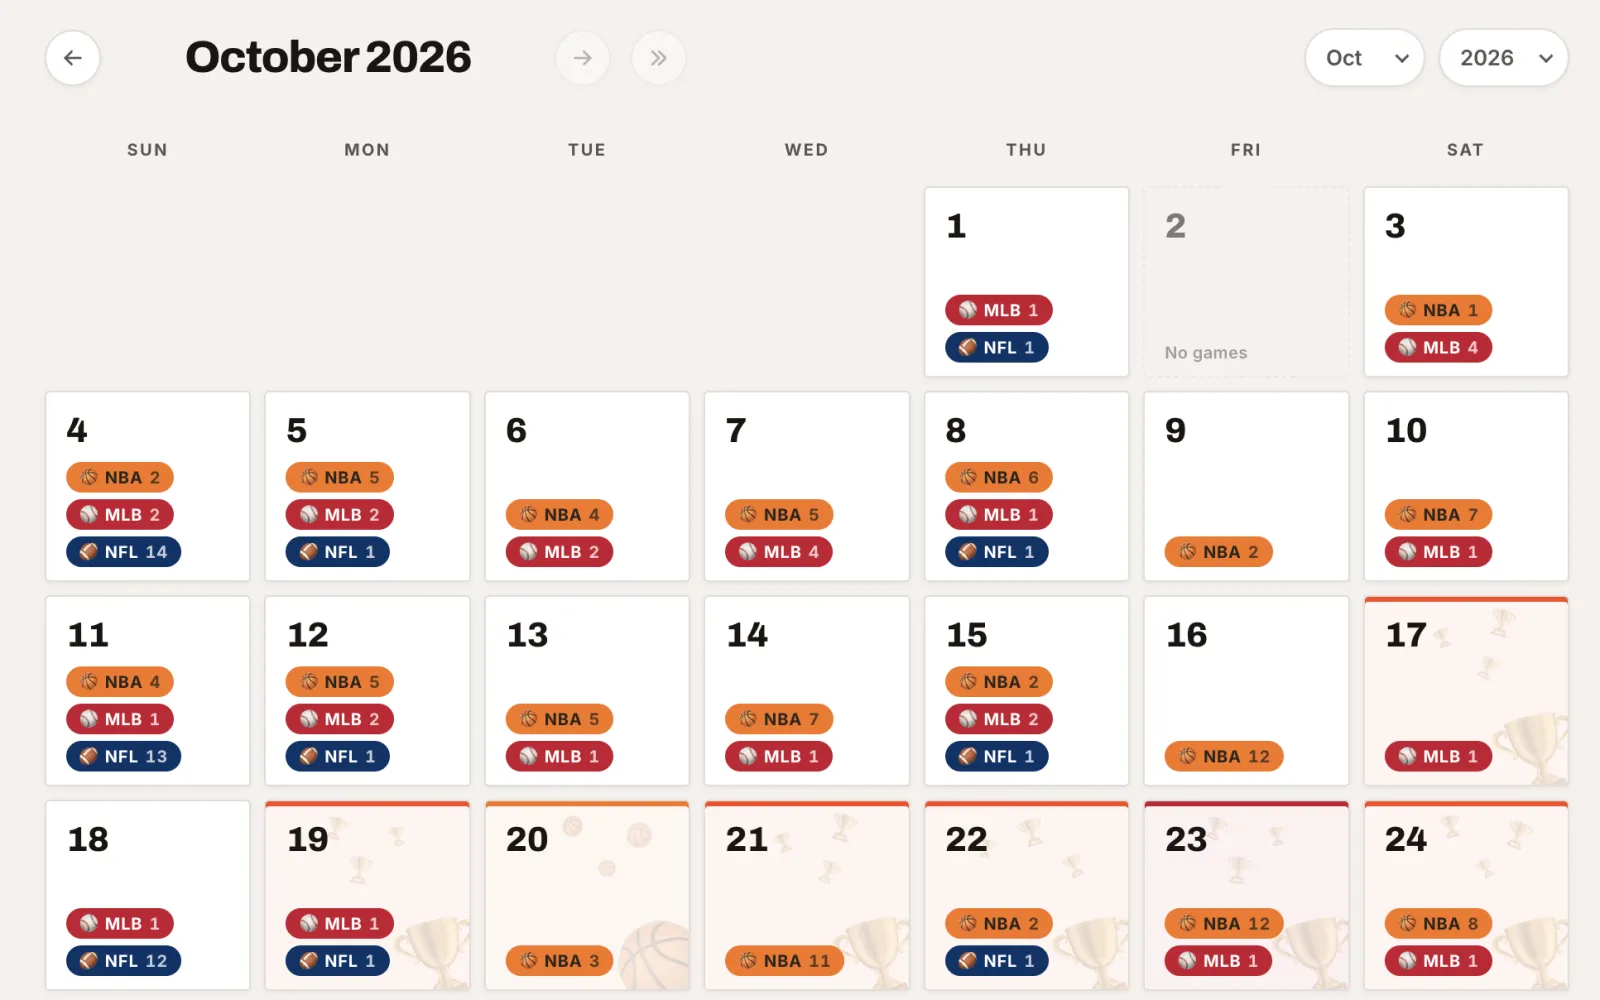
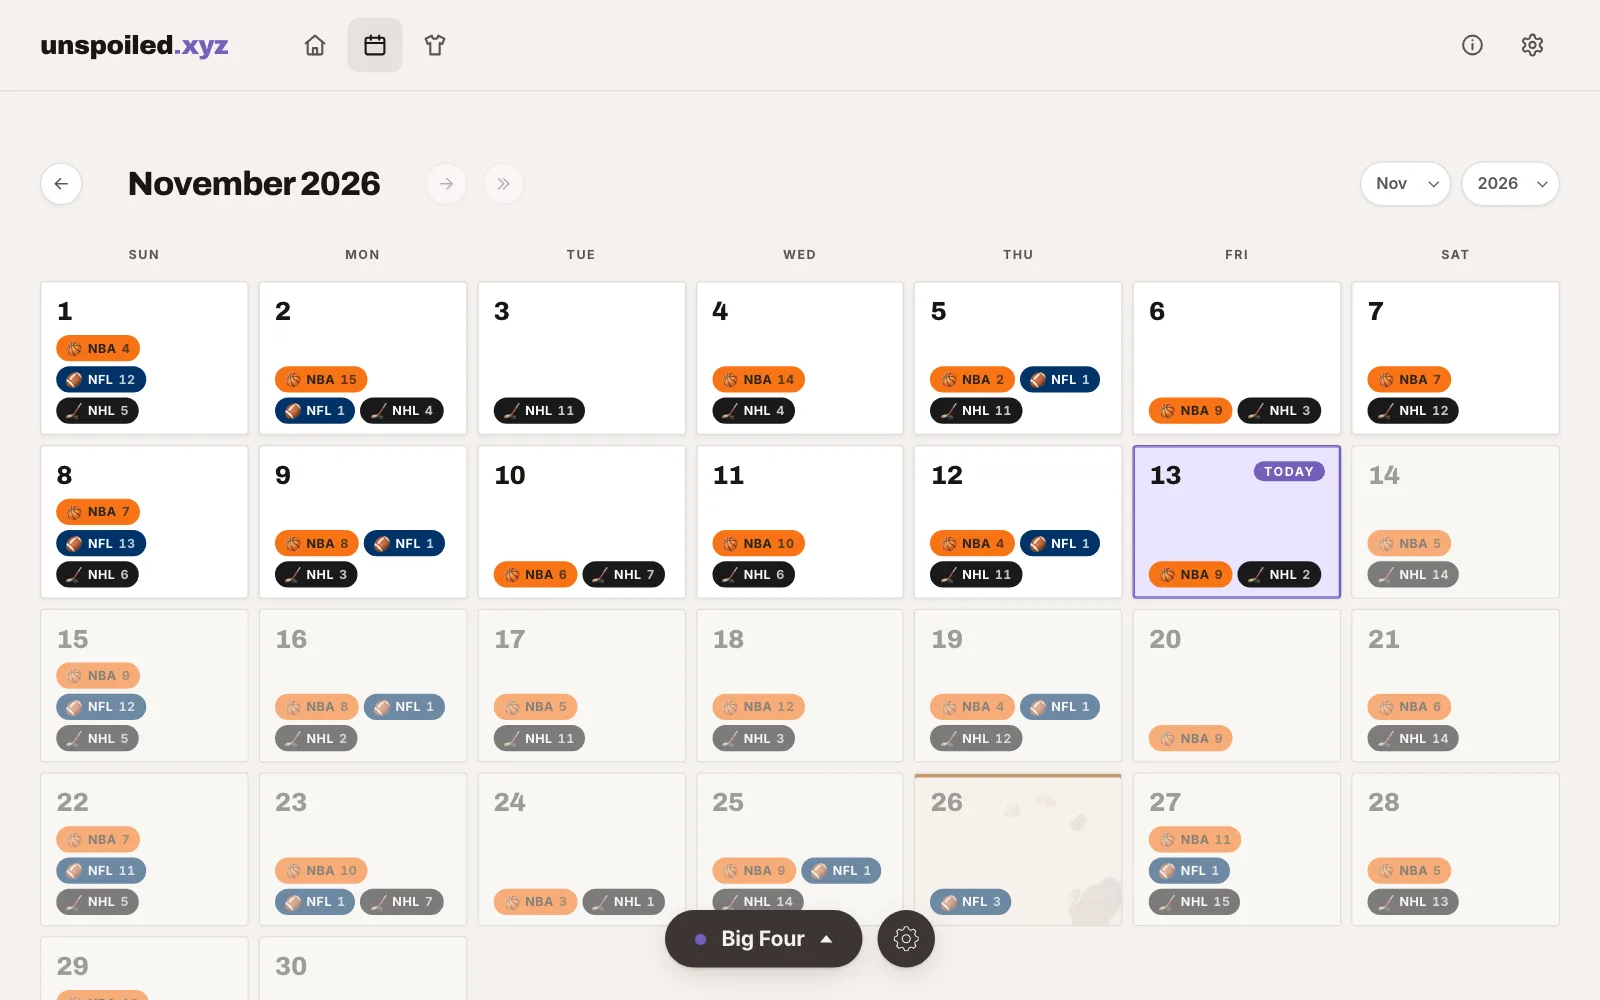
Retake the Unspoiled screenshots and this page's own nested screenshot

diff --git a/projects/index.html b/projects/index.html
@@ -410,8 +410,8 @@
           <p class="blurb">Spoiler-free sports highlights aggregator.</p>
           <div class="shots">
             <img src="img/unspoiled.webp" width="1600" height="1000" alt="Unspoiled's home page, with games by date and league" loading="lazy">
-            <img src="img/unspoiled-calendar.webp" width="1600" height="1000" alt="Unspoiled's calendar for October 2026" loading="lazy">
-            <img src="img/unspoiled-teams.webp" width="1600" height="1000" alt="Unspoiled's team list, with favorites first" loading="lazy">
+            <img src="img/unspoiled-calendar.webp" width="1600" height="1000" alt="Unspoiled's calendar for November 2026" loading="lazy">
+            <img src="img/unspoiled-teams.webp" width="1600" height="1000" alt="Unspoiled's team list in dark mode, with favorites first" loading="lazy">
             <img src="img/unspoiled-what-to-show.webp" width="1600" height="1000" alt="Unspoiled's What to show panel, for choosing leagues and tournaments" loading="lazy">
           </div>
           <p class="stack">pnpm monorepo · Next.js 15 web app on Vercel · Supabase Postgres · ingest worker on GitHub Actions</p>
@@ -571,7 +571,7 @@
         <div class="body">
           <p class="blurb">Hosts the supporting pages (like privacy policies) for projects without domains of their own, as well as this overview page listing all of my current side projects. <button type="button" id="keys-open" class="linkish">Supports keyboard shortcuts.</button></p>
           <div class="shots">
-            <img src="img/tfiish.webp" width="2000" height="1443" alt="This page's project cards" loading="lazy">
+            <img src="img/tfiish.webp" width="2000" height="1821" alt="This page's project cards" loading="lazy">
           </div>
           <p class="stack">GitHub Pages</p>
           <details class="managing">
